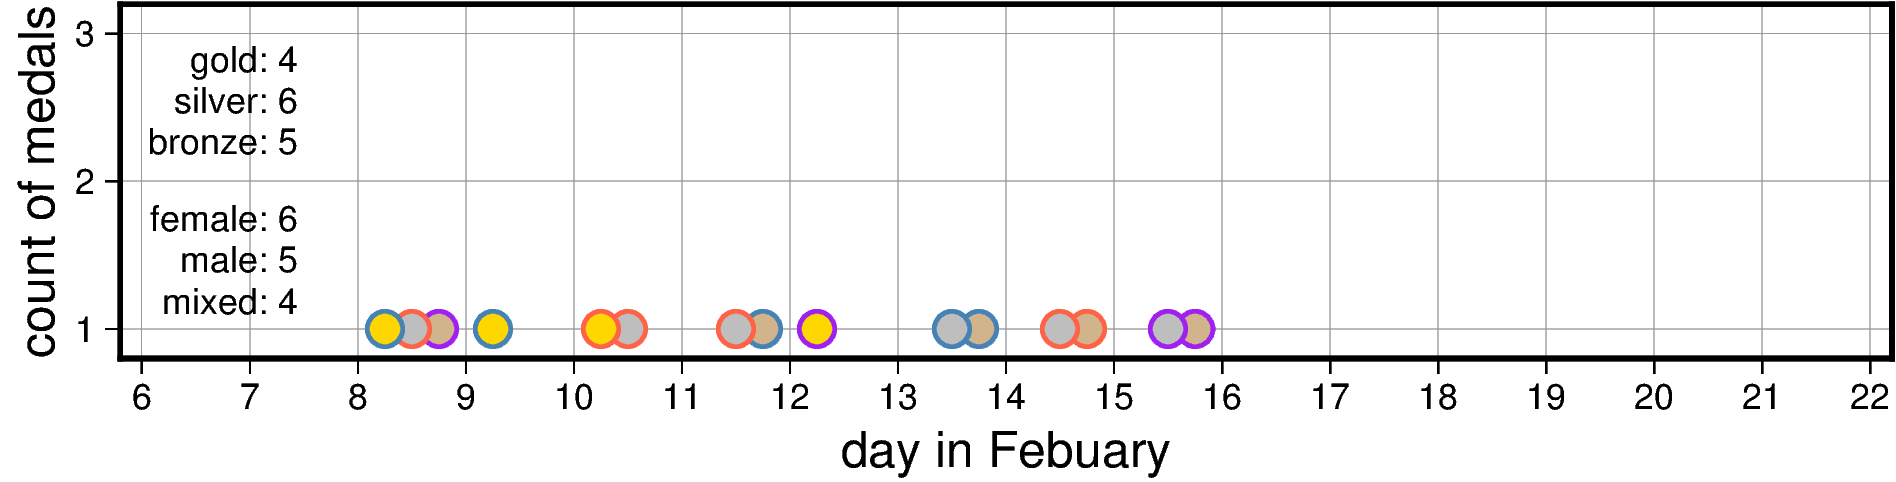
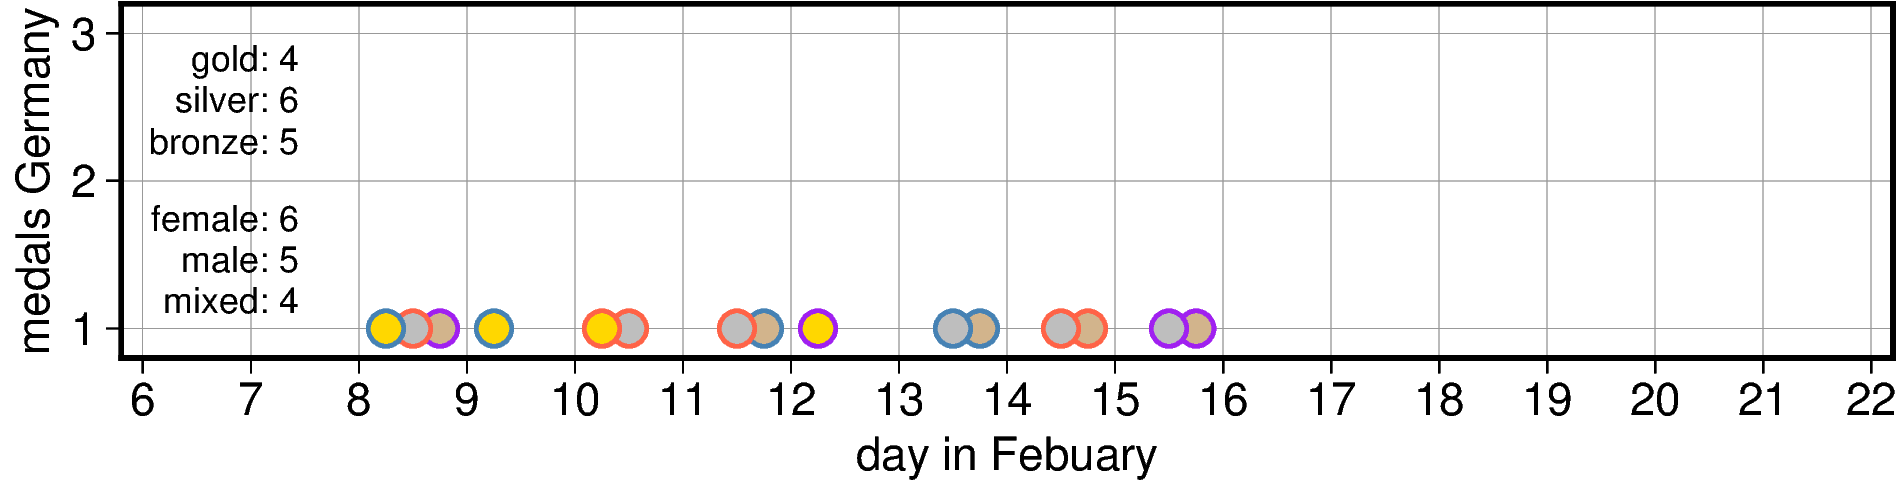
Adjust annotation of y axis

diff --git a/016_winter_olympics_2026/05_medals_germany.py b/016_winter_olympics_2026/05_medals_germany.py
@@ -25,12 +25,12 @@ path_out = "02_out_figs"
 df_medals = pd.read_csv(f"{path_in}/medals_germany.txt", sep=";")
 
 fig = pygmt.Figure()
-pygmt.config(MAP_GRID_PEN_PRIMARY="0.01p,gray60")
-fig.basemap(
-    region=[5.8, 22.2, 0.8, 3.2],
-    projection="X15c/3c",
-    frame=["xa1g1+lday in Febuary", "ya1g1+lcount of medals"],
-)
+with pygmt.config(MAP_GRID_PEN_PRIMARY="0.01p,gray60", FONT="11p"):
+    fig.basemap(
+        region=[5.8, 22.2, 0.8, 3.2],
+        projection="X15c/3c",
+        frame=["xa1g1+lday in Febuary", "ya1g1+lmedals Germany"],
+    )
 
 for medal, color, xshift in zip(
     ["bronze", "silver", "gold"],
@@ -53,12 +53,12 @@ fig.savefig(fname=f"{path_out}/05_medals_germany.png")
 df_medals = pd.read_csv(f"{path_in}/medals_germany_02.txt", sep=";")
 
 fig = pygmt.Figure()
-pygmt.config(MAP_GRID_PEN_PRIMARY="0.01p,gray60")
-fig.basemap(
-    region=[5.8, 22.2, 0.8, 3.2],
-    projection="X15c/3c",
-    frame=["xa1g1+lday in Febuary", "ya1g1+lcount of medals"],
-)
+with pygmt.config(MAP_GRID_PEN_PRIMARY="0.01p,gray60", FONT="11p"):
+    fig.basemap(
+        region=[5.8, 22.2, 0.8, 3.2],
+        projection="X15c/3c",
+        frame=["xa1g1+lday in Febuary", "ya1g1+lmedals Germany"],
+    )
 
 n_F = 0
 n_M = 0
